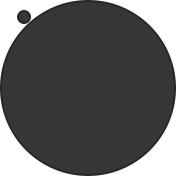
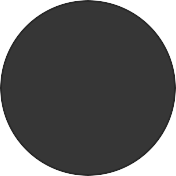
Added Project & Fixes
• Added Encrypted Chat project from 478 Security class!
• Updated profile picture and cover photo.
• Removed Helikopter project.
• Visual tweaks to projects screen.
• Updated about page information.

diff --git a/javascript/projects.js b/javascript/projects.js
@@ -15,8 +15,8 @@ const GITLINK				= 8;
 
 // FILE_NAME				DISPLAY_NAME								ARCHIECTURE(S)							DESCRIPTION		PLATFORM		UPDATED			IMAGE_COUNT  	VIDEO_ID	GITHUB
 var PROJECT = [[],
-	["website", 			"Website", 									"HTML5, Javascript, CSS", 	"descrip",		"WEB",			"10/5/16", 	18, 					"",							""],
-	// ["helikopter", 		"Helicopter", 							"Java", 										"descrip",		"DESKTOP",	"10/5/16", 	1, 						""],
+	["website", 			"Website", 									"HTML5, Javascript, CSS", 	"descrip",		"WEB",			"2/26/18", 	18, 					"",							""],
+	["encryptedChat", "Encrypted Chat", 					"Swift, NodeJS",						"descrip",		"DESKTOP", 	"12/14/17", 3, 						"qmoNRhd8Ifs",	"https://github.com/harrisonbalogh/Whisper_Server"],
 	["javaPhysics", 	"2D World Template", 				"Java", 										"descrip",		"DESKTOP",	"10/5/16", 	1, 						"",							"https://github.com/harrisonbalogh/java-2d-template"],
 	["messenger",			"Messenger",								"Java", 										"descrip",		"DESKTOP",	"7/30/17", 	4, 						"lH9r2jlbAXE",	"https://github.com/harrisonbalogh/server-client-messenger"],
 	["swiftPhysics",	"Physics Animator", 				"Swift",										"descrip",		"MOBILE", 	"7/29/17", 	7,						"CfA7l1JJYDc",	"https://github.com/harrisonbalogh/spriteKit-dynamicAnimations"],
@@ -24,7 +24,7 @@ var PROJECT = [[],
 	["munch", 				"Munch",										"Java",											"descrip",		"DESKTOP",	"10/5/16", 	6,						"",							""],
 	["art", 					"Art Assets",								"_",												"descrip",		"UNIVERSAL","1/28/17", 	13,						"",							""],
 	["collision", 		"2D Colliders",							"Java",											"descrip",		"DESKTOP",	"10/5/16", 	1,						"61Fctqe4ciA",	"https://github.com/harrisonbalogh/java-2d-colliders"],
-	["earthMap", 			"Earth Map",								"Java",											"descrip",		"DESKTOP",	"10/5/16", 	1,						"MMTMMQx4eeo",	""]
+	["earthMap", 			"Earth Map",								"Java",											"descrip",		"DESKTOP",	"10/5/16", 	1,						"MMTMMQx4eeo",	"https://github.com/harrisonbalogh/java-2d-template"]
 ];
 //Whitespace tabs: &nbsp &nbsp
 
@@ -47,7 +47,7 @@ var DRAG_DECELERATION = 1;
 var dragClockRunning = false;
 
 // Project Icon Slideshow
-var SLIDESHOW_TRANSITION_TIME = 1; // secs
+var SLIDESHOW_TRANSITION_TIME = 0.5; // secs
 var slideshowTransitionTimer;
 var slideshowImage = 1;
 var slideshowProject = -1;
@@ -72,8 +72,6 @@ var projects_expanded_imageList = document.getElementById('projects-expanded-ima
 var projects_expanded_description = document.getElementById('projects-expanded-description');
 var projects_exapnded_description_gitLink = document.getElementById('projects-expanded-description-gitLink');
 var projects_expanded_description_container = document.getElementById('projects-expanded-description-container');
-var projects_expanded_description_expandButton = document.getElementById('projects-expanded-description-expandButton');
-var projects_expanded_description_blur = document.getElementById('projects-expanded-description-blur');
 var project_imageZoom_container = document.getElementById('project-imageZoom-container');
 var project_imageZoom_cover = document.getElementById('project-imageZoom-cover');
 var project_imageZoom_image = document.getElementById('project-imageZoom-image');
@@ -88,23 +86,6 @@ var project_imageZoom_left = document.getElementById('project-imageZoom-left');
 	var containerHeight = document.getElementById('scene-projects').offsetHeight - (projects_search.offsetTop + projects_search.offsetHeight);
 	// TweenLite.set(projects_containerList, {height: containerHeight});
 	projects_containerList.style.height = containerHeight + "px";
-	// Initialize expand button
-	projects_expanded_description_expandButton.onclick = function(e) {
-
-		var hContainer = projects_containerList.offsetHeight - 140;
-
-		if (projects_containerExpanded.style.height == hContainer + "px") {
-			TweenLite.to(projects_expanded_description_container, 0.5, {height: projects_expanded_description.offsetHeight + 2*projects_expanded_description_expandButton.offsetHeight});
-			TweenLite.to(projects_containerExpanded, 0.5, {
-				height: projects_expanded_description_container.offsetTop + projects_expanded_description.offsetHeight - projects_containerExpanded.offsetTop + 2*projects_expanded_description_expandButton.offsetHeight});
-			projects_expanded_description_expandButton.innerHTML = "Show Less";
-		} else {
-			TweenLite.to(projects_containerExpanded, 0.5, {height: hContainer});
-			var hDescrip = Math.max(hContainer, 300) - (projects_expanded_description_container.offsetTop - projects_containerExpanded.offsetTop);
-			TweenLite.to(projects_expanded_description_container, 0.5, {height: hDescrip});
-			projects_expanded_description_expandButton.innerHTML = "Show More";
-		}
-	};
 })();
 
 function projectsRefit() {
@@ -134,19 +115,21 @@ var selectProject = function(projNum) {
 		if (projectSelected != projNum) {
 			// Update visuals to the list of projects by icon
 			TweenLite.to(projects_list, 0.5, {height: 190, textAlign: "left", width: projects_list.getElementsByTagName("li").length * 163});
-			TweenLite.to(projects_list.getElementsByTagName("li"), 0.5, {opacity: 0.25, cursor: "pointer", width: 155, margin: "8px 4px"});
+			TweenLite.to(projects_list.getElementsByTagName("li"), 0.5, {cursor: "pointer", width: 155, margin: "8px 4px"});
 			TweenLite.to(projects_iconCircle, 0.5, {height: 70, width: 70});
 			TweenLite.to(projects_icon, 0.5, {height: 78, width: 78});
 			// If there is already a selected project, reset its icon
 			if (projectSelected != -1) {
 				TweenLite.to(projects_iconCircle[projectSelected], 0.5, {opacity: 1});
 				projects_icon_OuterCircle[projectSelected].style.backgroundImage = "url(images/icon_outerCircle@2x.png)";
+				TweenLite.to(projects_list.getElementsByTagName("li")[projectSelected-1], 0.5, {opacity: 1, backgroundColor: "tranparent", color: __color_background});
 			}
-			// Darken the coloring of all other project tiles.
 			// Update the newly selected project icon
 			TweenLite.to(projects_iconCircle[projNum], 0.5, {opacity: 0});
+			// TweenLite.to(projects_list.getElementsByTagName("li")[projNum-1], 0.5, {backgroundColor: __color_background, color: __color_foreground});
 			projects_icon_OuterCircle[projNum].style.backgroundImage = "url(images/icon_outerCircle_selected@2x.png)";
 			TweenLite.to(projects_list.getElementsByTagName("li")[projNum-1], 0.5, {opacity: 0.70, cursor: "default"});
+			TweenLite.set(projects_icon[projNum], {scale: 0.9, ease: Back.easeInOut});
 			projects_expanded_title.innerHTML = PROJECT[projNum][DISPLAY_NAME];
 			// Don't display a dash "-" if the architectures field is empty
 			if (PROJECT[projNum][ARCHITECTURES] == "_") {
@@ -204,16 +187,8 @@ var selectProject = function(projNum) {
 			var hDescrip = Math.max(hContainer, 300) - (projects_expanded_description_container.offsetTop - projects_containerExpanded.offsetTop);
 			TweenLite.to(projects_expanded_description_container, 0.5, {height: hDescrip});
 
-			projects_expanded_description_expandButton.innerHTML = "Show More";
 			TweenLite.to(projects_containerList, 0.3, {scrollTo: 0});
 			projects_expanded_description.innerHTML = PROJECT[projNum][DESCRIPTION];
-			if (projects_expanded_description.offsetHeight + 5 <= hDescrip) {
-				projects_expanded_description_expandButton.style.zIndex = -3;
-				projects_expanded_description_blur.style.zIndex = -3;
-			} else {
-				projects_expanded_description_expandButton.style.zIndex = 1;
-				projects_expanded_description_blur.style.zIndex = 0;
-			}
 			// Update reference to which project is now selected
 			projectSelected = projNum;
 			// Simulate a mouse leave of the project
@@ -239,7 +214,7 @@ var selectProject = function(projNum) {
 		TweenLite.to(projects_icon, 0.5, {height: 100, width: 100});
 		TweenLite.to(projects_iconCircle[projectSelected], 0.5, {opacity: 1})
 		projects_icon_OuterCircle[projectSelected].style.backgroundImage = "url(images/icon_outerCircle@2x.png)";
-		TweenLite.to(projects_list.getElementsByTagName("li"), 0.5, {opacity: 1, cursor: "pointer", width: 200, margin: "20px 20px"});
+		TweenLite.to(projects_list.getElementsByTagName("li"), 0.5, {opacity: 1, cursor: "pointer", width: 200, margin: "20px 20px", backgroundColor: "tranparent", color: __color_background});
 		// Reset the list visuals
 		TweenLite.to(projects_list_container, 0.5, {scrollTo: 0});
 		TweenLite.to(projects_list, 0.5, {height: "auto", textAlign: "center", width: "auto"});
@@ -274,7 +249,7 @@ function initializeProjectItem(x) {
 	projects_icon_OuterCircle.push(pOuterCircle)
 	var pInnerCircle = document.createElement("div");
 	pInnerCircle.setAttribute("class", "projects-list-icon-innerCircle");
-	pLogo.appendChild(pInnerCircle);
+	pOuterCircle.appendChild(pInnerCircle);
 	projects_iconCircle.push(pInnerCircle);
 	if (PROJECT[x][IMAGE_COUNT] > 0) {
 		pInnerCircle.style.backgroundImage = "url(projects/" + PROJECT[x][FILE_NAME] + "/p1_thumb@2x.png)";
@@ -325,9 +300,11 @@ function initializeProjectItem(x) {
 	li.onmouseenter = function() {
 		if (x != projectSelected) {
 			pArchitecture.style.borderColor =  __color_background;
-			TweenLite.to(li, 0.25, {marginBottom: 0, opacity: 1});
+			TweenLite.to(li, 0.25, {marginBottom: 0});
 			TweenLite.to(pExpand, 0.25, {height: 16});
-			TweenLite.to(pOuterCircle, PROJECT[x][IMAGE_COUNT], {rotation: 360, ease: Power0.easeNone});
+			// TweenLite.to(pOuterCircle, PROJECT[x][IMAGE_COUNT], {rotation: 360, ease: Power0.easeNone});
+			TweenLite.to(pLogo, 0.4, {scale: 1.1, ease: Back.easeInOut});
+			TweenLite.to(pOuterCircle);
 			slideshowProject = x;
 			slideshowStart(x);
 		}
@@ -335,11 +312,12 @@ function initializeProjectItem(x) {
 	li.onmouseleave = function() {
 		TweenLite.to(pArchitecture, 0.05, {borderColor: "transparent", delay: 0.20});
 		TweenLite.to(li, 0.25, {marginBottom: 16});
-		if (projectSelected != -1 && x != projectSelected) {
-			TweenLite.to(li, 0.25, {opacity: 0.25});
-		}
+		// if (projectSelected != -1 && x != projectSelected) {
+		// 	TweenLite.to(li, 0.25, {opacity: 0.25});
+		// }
 		TweenLite.to(pExpand, 0.25, {height: 0});
-		TweenLite.to(pOuterCircle, 0.75, {rotation: 0, ease: Power4.easeInOut});
+		TweenLite.to(pLogo, 0.6, {scale: 0.9, ease: Back.easeInOut});
+		// TweenLite.to(pOuterCircle, 0.75, {rotation: 0, ease: Power4.easeInOut});
 		slideshowStop();
 	};
 

diff --git a/CSS/projects.css b/CSS/projects.css
@@ -128,8 +128,9 @@
 }
 
 .projects-list li {
+	border: 1px solid transparent;
+	border-radius: 14px;
 	color: var(--color-background);
-	border-bottom-color: var(--color-background);
 	cursor: pointer;
 	display: inline-block;
 	margin: 20px 20px;
@@ -140,20 +141,19 @@
 }
 
 .projects-list-icon {
-		display: inline-block;
-		height: 100px;
-		margin: 0 0 6px 0;
-		padding: 0;
-		transform: translateX(-50%);
-		width: 100px;
+	display: inline-block;
+	height: 100px;
+	margin: 0 0 6px 0;
+	padding: 0;
+	transform: scale(0.9);
+	width: 100px;
 }
 
 .projects-list-icon-outerCircle {
 	background: url("../images/icon_outerCircle@2x.png") no-repeat center/100%;
 	display: inline-block;
 	height: 100%;
-	position: absolute;
-	transform: rotate(0deg);
+	/* position: absolute; */
 	width: 100%;
 }
 
@@ -166,7 +166,7 @@
 	/*filter: grayscale(50%);*/
 	height: 92px;
 	margin: 3px;
-	position: absolute;
+	/* position: absolute; */
 	width: 92px;
 }
 
@@ -270,7 +270,9 @@
 	display: inline-block;
 	height: 100%;
 	list-style: none;
+	margin: 0;
 	overflow-x: visible;
+	padding: 0;
 	text-align: center;
 }
 
@@ -303,11 +305,11 @@
 	display: block;
 	margin: 5px auto 0 auto;
 	max-width: 800px;
-	overflow-y: hidden;
+	overflow-y: scroll;
 	padding: 0;
 	position: relative;
 	text-align: center;
-	width: 96%;
+	width: 99%;
 }
 
 .projects-expanded-description-gitLink {
@@ -319,25 +321,6 @@
 }
 .projects-expanded-description-gitLink a:hover {
 	color: var(--color-accent);
-}
-
-.projects-expanded-description-blur {
-	bottom: 0;
-	box-shadow: 0 -20px 20px var(--color-background) inset;
-	height: 30px;
-	margin: 0;
-	padding: 0;
-	position: absolute;
-	width: 100%;
-}
-
-.projects-expanded-description-expandButton {
-	bottom: 0;
-	color: var(--color-foreground);
-	margin: 0;
-	padding: 0;
-	position: absolute;
-	width: 100%;
 }
 
 .projects-expanded-description-expandButton:hover {

diff --git a/javascript/home.js b/javascript/home.js
@@ -296,14 +296,14 @@ function update(delta) {
       e.preventDefault();
   };
 
-	// Remove loader display. This is technically called last but everything happens sync
-	var loaderOverlay = document.getElementById('loaderOverlay');
-	var loaderDisplay = document.getElementById('loaderDisplay');
-	var loaderText = document.getElementById('loaderText');
-	TweenLite.to(loaderOverlay, 0.4, {delay: 1, opacity: 0});
-	TweenLite.to(loaderText, 0.4, {delay: 1, opacity: 0});
-	TweenLite.set(loaderOverlay, {delay: 1.4, zIndex: -9});
-	TweenLite.set(loaderDisplay, {delay: 1.8, zIndex: -9});
+	// // Remove loader display. This is technically called last but everything happens sync
+	// var loaderOverlay = document.getElementById('loaderOverlay');
+	// var loaderDisplay = document.getElementById('loaderDisplay');
+	// var loaderText = document.getElementById('loaderText');
+	// TweenLite.to(loaderOverlay, 0.4, {delay: 0, opacity: 0});
+	// TweenLite.to(loaderText, 0.4, {delay: 0, opacity: 0});
+	// TweenLite.set(loaderOverlay, {delay: 1.4, zIndex: -9});
+	// TweenLite.set(loaderDisplay, {delay: 1.8, zIndex: -9});
 	// loaderOverlay.style.opacity = 0;
 	// loaderDisplay.style.opacity = 0;
 	// loaderOverlay.style.zIndex = -9;

diff --git a/index.html b/index.html
@@ -17,12 +17,12 @@
 <link rel="icon" href="images/webIcon@2x.png">
 </head>
 
-<div id="loaderOverlay">
+<!-- <div id="loaderOverlay">
   <div class="indicator"></div>
 </div>
 <div id="loaderDisplay">
   <p id="loaderText">Loading</p>
-</div>
+</div> -->
 
 <body>
 
@@ -271,8 +271,6 @@
             <div class="projects-expanded-description-container" id="projects-expanded-description-container">
               <p class="projects-expanded-description-gitLink" id="projects-expanded-description-gitLink">GitHub link: </p>
               <p class="projects-expanded-description" id="projects-expanded-description"></p>
-              <div class="projects-expanded-description-blur" id="projects-expanded-description-blur"></div>
-              <p class="projects-expanded-description-expandButton" id="projects-expanded-description-expandButton">Read More</p>
             </div>
           </div>
 

diff --git a/CSS/about.css b/CSS/about.css
@@ -55,17 +55,17 @@
 }
 
 .about--profile-cover {
-	background: url("../images/profile_cover@2x.jpg") no-repeat center top/contain;
+	background: url("../images/profile_cover2@2x.jpg") repeat top center/600px;
 	display: inline-block;
 	height: 1000px;
-	min-width: 1418px;
+	/* min-width: 1418px; */
 	text-align: center;
 	width: 100%;
 	z-index: 0;
 }
 
 .about--profile-picture {
-	background: url("../images/profilePic_noShadow@2x.png") no-repeat left center/contain;
+	background: url("../images/profilePic_noShadow2@2x.png") no-repeat left center/contain;
 	display: block;
 	float: left;
 	height: 150px;
